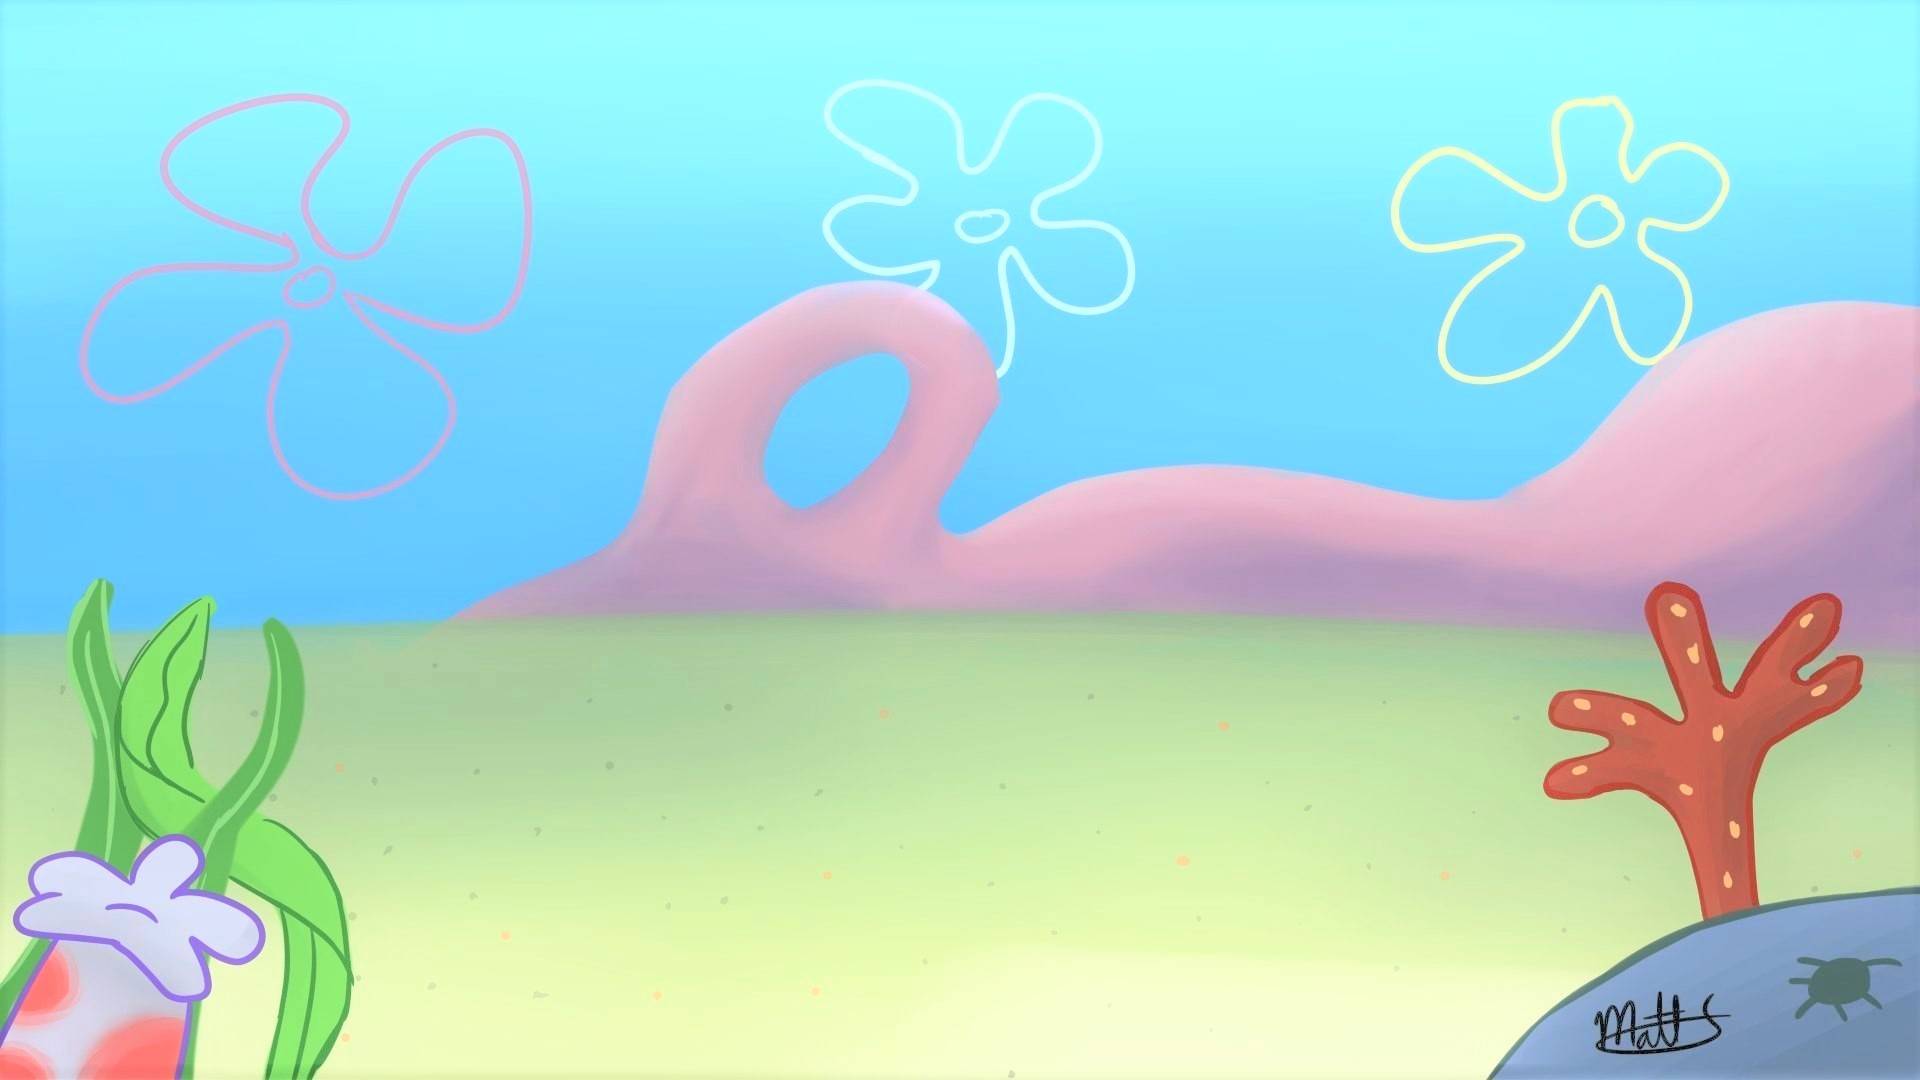
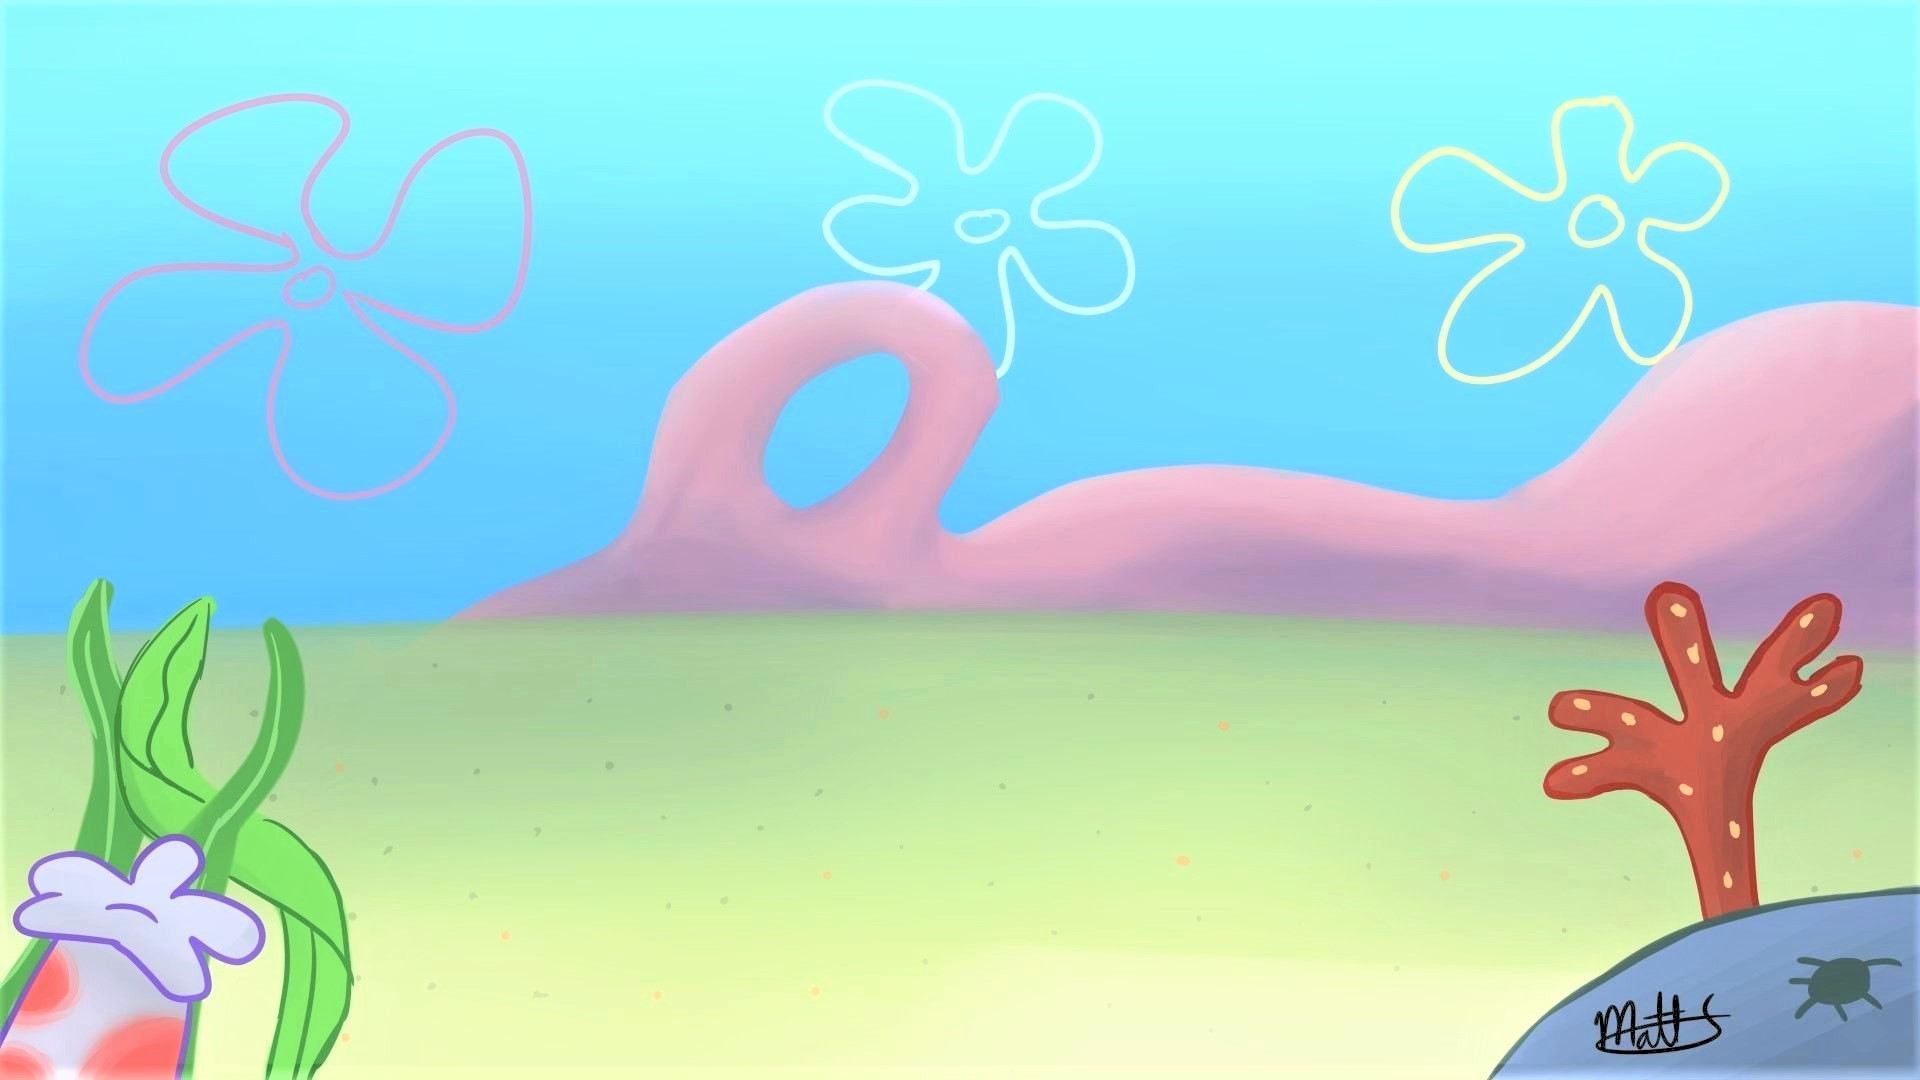
add: shadow on background

Changed region(s): [[0.7812, 0.9167, 1.0, 1.0], [0.0, 0.9778, 0.0938, 1.0], [0.125, 0.9778, 0.1562, 1.0]]

diff --git a/style.css b/style.css
@@ -15,11 +15,23 @@ body {
 	background: url(/image/темная\ тема.png);
 }
 
+.overlay {
+	width: 100%;
+	height: 100%;
+	background: #95909047;
+	position: absolute;
+	left: 0;
+	top: 0;
+	z-index: 0;
+}
+
 section {
 	width: 1280px;
 	margin: 20px auto;
 	display: flex;
 	flex-direction: column;
+	position: relative;
+	z-index: 1;
 }
 
 .header {

diff --git a/index.html b/index.html
@@ -11,6 +11,8 @@
 	</head>
 
 	<body class="light-theme">
+		<div class="overlay"></div>
+
 		<section class="header">
 			<div class="button">
 				<button onclick="myFunc('first')" class="btn-first">Спанч Боб</button>
